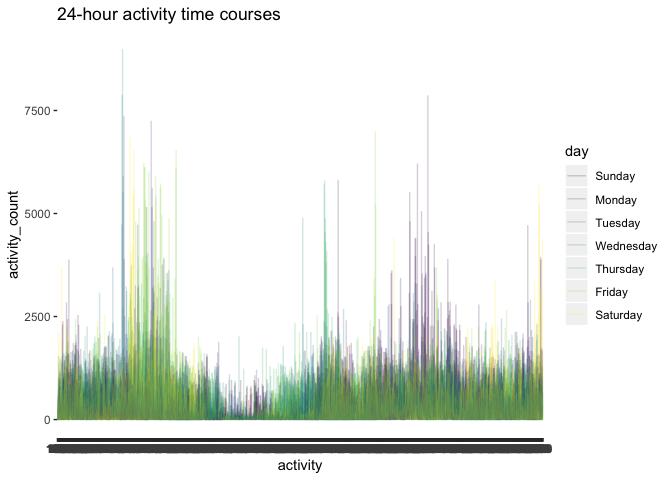
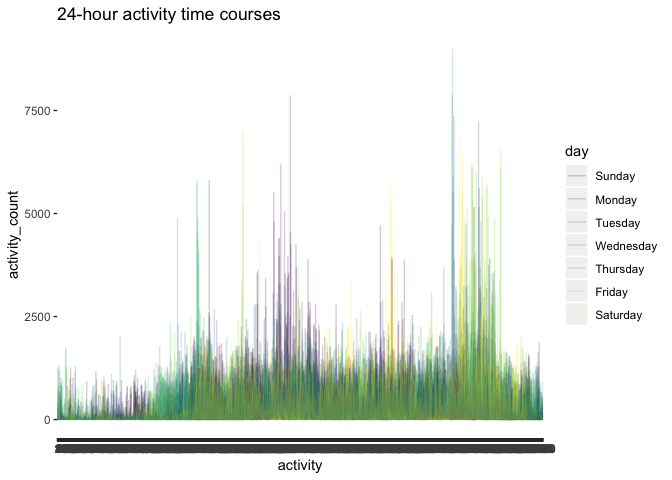
change the last graphic

Changed region(s): [[0.0625, 0.2188, 0.8125, 0.875], [0.0625, 0.9062, 0.0938, 0.9375]]

diff --git a/p8105_hw3_al3998.md b/p8105_hw3_al3998.md
@@ -250,7 +250,7 @@ good` are similar.The curve of `Fair` is more dispersive in 2010 than in
   accel_data = read_csv("./accel_data.csv") %>% 
   janitor::clean_names() %>% 
   pivot_longer(cols = 4:1443,names_to = "activity",names_prefix = "activity_",values_to = "activity_count") %>% 
-    mutate(weekday_end = case_when(day =="Monday" ~ "weekday",
+    mutate(activity = factor(activity,level = c(1:1440)),weekday_end = case_when(day =="Monday" ~ "weekday",
                                     day =="Tuesday" ~ "weekday",
                                     day =="Wednesday" ~ "weekday",
                                     day =="Thursday" ~ "weekday",
@@ -375,9 +375,11 @@ dramatic.
 ![](p8105_hw3_al3998_files/figure-gfm/unnamed-chunk-18-1.png)<!-- -->
 
 As we can see from the graphic,the `activity_count` of the 24-hour
-activity time courses suddenly drops during a specific period of time in
+activity time courses is very low at the beginning of this graphic in
 almost everyday in a week which means that during this period of time
-the count of activity is small.Also, we can see from the graphic,there
-are about 2~3 peaks in `activity_count` which means during these peroid
-of time in everyday,the count of activity is larger than count during
-other period of time in a day.
+the counts of activity is small,and this peroid of time is around the
+midnight and can make sense.Also, we can see from the graphic,there are
+about 2~3 peaks in `activity_count` which means during these peroid of
+time in everyday,the counts of activity is larger than counts during
+other period of time in a day,and the time of peaks maybe around 7:00 in
+the morning,12:00 at noon and 19:00 to 20:00 at night.
